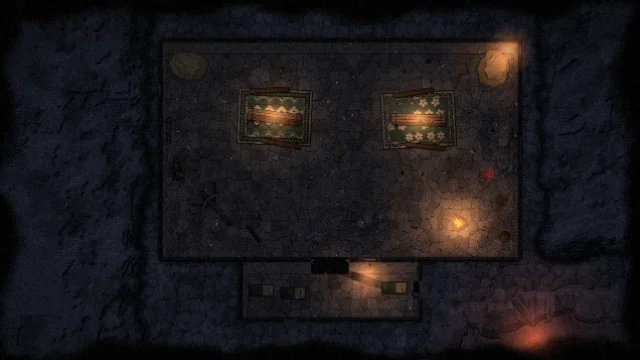
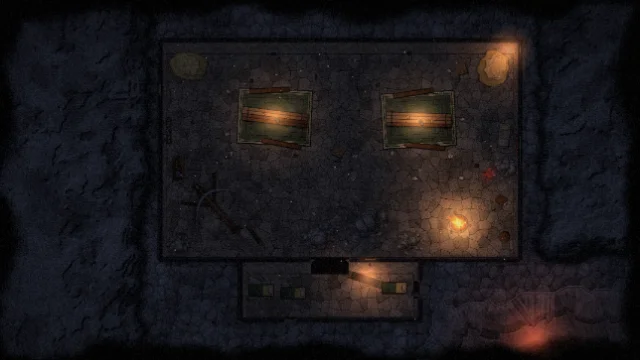
retuned the guardroom with matching rugs and larger props
both tables sit on the same bordered green rug; tables, ballista, brazier and rubble scaled up

Changed region(s): [[0.375, 0.2444, 0.4688, 0.3972], [0.5938, 0.2444, 0.7188, 0.3972], [0.6875, 0.5806, 0.75, 0.6417]]

diff --git a/scripts/exemplos/sala-da-guarda.ts b/scripts/exemplos/sala-da-guarda.ts
@@ -28,8 +28,8 @@ export const salaDaGuarda: Exemplo = {
 
     // Duas mesas de jogo sobre tapetes, com velas, dados e moedas.
     for (const [x, y, r] of [[20.6, 8.8, 0.04], [31.4, 9.0, -0.05]] as const) {
-      k.objeto('tapete.persa', [x, y], { params: { largura: 5.6, altura: 4.2, material: 'tapete.verde' }, rotation: r });
-      k.objeto('mesa.cavalete', [x, y], { params: { largura: 3.4 }, rotation: r + 0.08, scale: 1.2 });
+      k.objeto('tapete.persa', [x, y], { params: { largura: 5.6, altura: 4.2, material: 'tapete.verde', desenho: 3 }, rotation: r });
+      k.objeto('mesa.cavalete', [x, y], { params: { largura: 3.4 }, rotation: r + 0.08, scale: 1.45 });
       k.objeto('banco.longo', [x - 0.4, y - 2.0], { params: { largura: 3 }, rotation: r - 0.1 });
       k.objeto('banco.longo', [x + 0.5, y + 2.0], { params: { largura: 3 }, rotation: r + 0.15 });
       k.objeto('castical.mesa', [x - 0.8, y - 0.2], { rotation: 0 });
@@ -44,16 +44,16 @@ export const salaDaGuarda: Exemplo = {
     k.objeto('monte-de-palha', [14.2, 5.0], { rotation: 0.3, scale: 2 });
     k.objeto('monte-de-palha', [37.0, 5.2], { rotation: 1.8, scale: 2.1 });
     k.objeto('enxergao', [37.8, 10.2], { rotation: 0.1 });
-    k.objeto('balista', [16.2, 15.6], { rotation: 2.4, scale: 1.5 });
+    k.objeto('balista', [16.2, 15.6], { rotation: 2.4, scale: 2.1 });
     k.objeto('pilha-de-balas', [13.6, 17.8], { scale: 1.3 });
     k.objeto('viga-partida', [19.4, 18.0], { rotation: 0.9 });
-    k.objeto('braseiro', [34.4, 16.8], { scale: 1.5 });
+    k.objeto('braseiro', [34.4, 16.8], { scale: 1.8 });
     k.luz('fogueira', [34.4, 16.8], { radius: 7, intensity: 1.3, color: '#ffa04a' });
     k.objeto('barril', [37.8, 17.8], { scale: 1.2 });
     k.objeto('barril.deitado', [37.6, 15.0], { rotation: 0.6 });
     k.objeto('suporte-de-armas', [12.6, 9.8], { params: { largura: 2 }, rotation: Math.PI / 2 });
     k.objeto('mesa-de-armas', [13.4, 12.6], { rotation: Math.PI / 2 });
-    for (const [x, y, s] of [[27.4, 16.6, 2.2], [23.8, 17.8, 1.4], [38.0, 12.6, 1.4]] as const) k.objeto('escombros', [x, y], { scale: s, rotation: 0 });
+    for (const [x, y, s] of [[27.4, 16.6, 2.6], [23.8, 17.8, 1.8], [38.0, 12.6, 1.8], [30.6, 18.2, 1.6], [13.4, 18.4, 1.4]] as const) k.objeto('escombros', [x, y], { scale: s, rotation: 0 });
     k.espalhar('bagunca', { poligono: [[13, 4], [38, 4], [38, 18.5], [13, 18.5]] }, { densidade: 0.03 });
 
     // Nicho com fogo a nordeste e o estandarte azul na parede leste.
